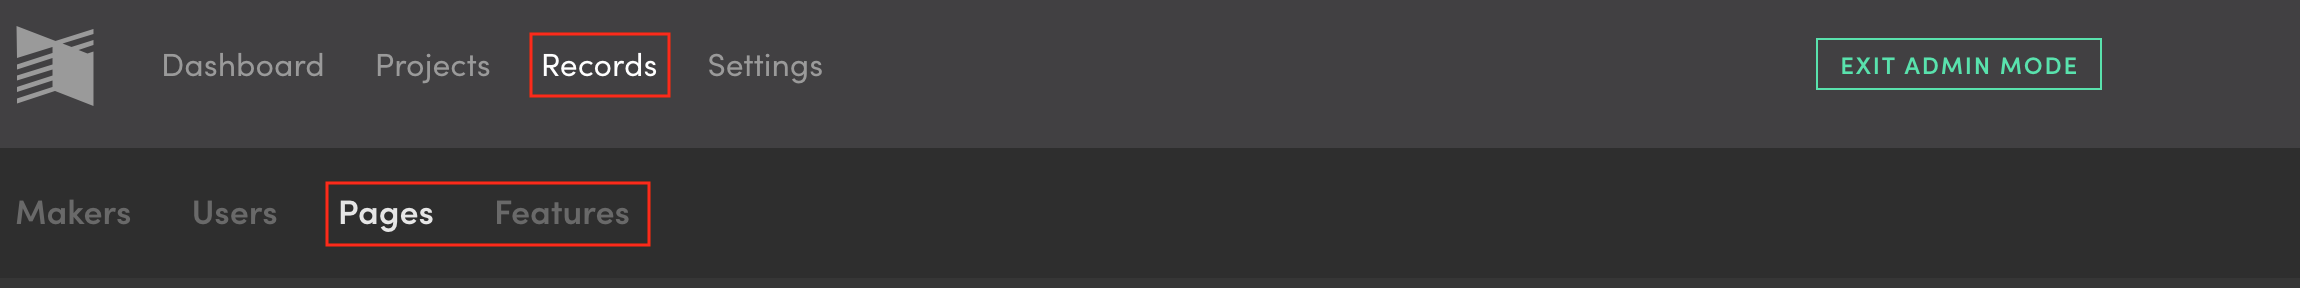
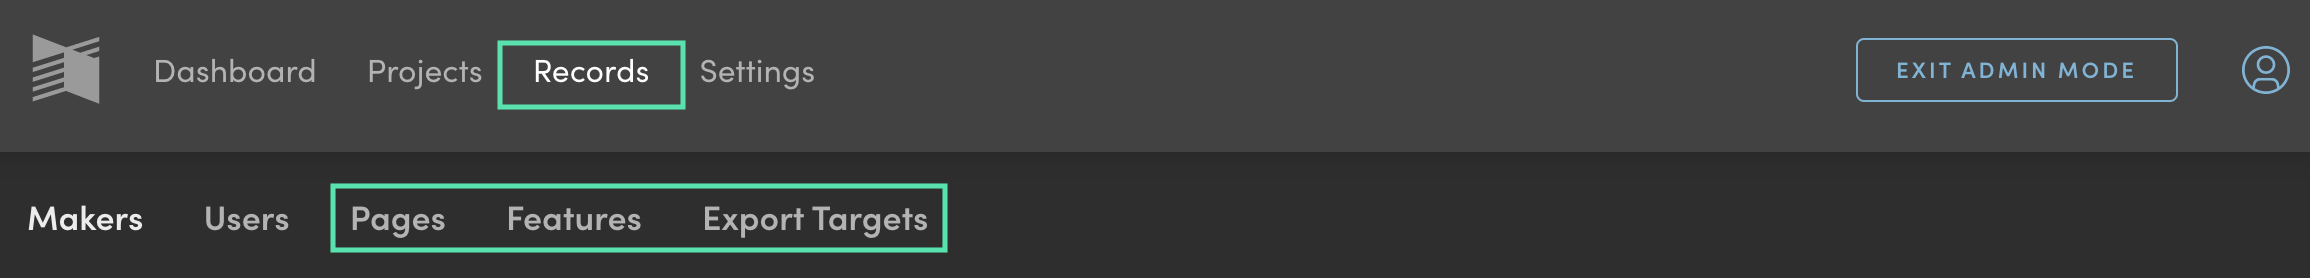
Describes new export feature [WIP]

diff --git a/_docs/customizing/records/export.md b/_docs/customizing/records/export.md
@@ -1,0 +1,121 @@
+---
+layout: page
+title: Export Targets
+menus:
+  records:
+    weight: 3
+---
+
+Publishers entrusting their scholarly content to Manifold can be assured their materials can easily be exported for long-term preservation. This page describes how to establish pathways from a Manifold instance to a preservation archive. We call such pathways “export targets.”
+
+To create or edit existing export targets, navigate from the `Records` menu in the backend to `Export Targets`.
+
+<div style="background: #d4f2ff; margin: 20px 0; padding: 15px;">
+<strong>Note</strong>. You will need to login with Administrator, Editor, or Marketeer credentials in order to this menu in the backend. For more on the roles available in Manifold, see the <a href="/docs/projects/accounts/index.html">Accounts section</a>.
+</div>
+
+Any existing export targets will be listed on this view. New targets can be created by clicking `Add a new export target`, which will open a drawer from the right where the pathway's name and technical details are input.
+
+![New Export Target](/docs/assets/customizing/export-record.png)
+
+The new target form includes the following fields, all of which are required to successfully establish the connection between Manifold and the repository.
+
+## Name
+
+This is an arbitrary name that a publisher can use to describe the connection in a way that makes sense for their situation. As examples, a publisher may use something like “University IR,” “Open Emory,” “Portico”, or “CLOCKKS”.
+
+## Target Name Format
+
+It's easy to be overwhelmed by this field at first glance, but in actuality it's far less complex or difficult to discern than the first impression suggests.
+
+The input in this field only determines the top-level filename of the exported archive. It *does not* affect the structure or content of the export in any way. In short, this gives publishers a means to use variables to ensure the exported archive matches the file naming preferences of an expecting archive.
+
+For the technically inclined, the available input values can be described by [this table](https://github.com/ManifoldScholar/manifold/blob/d500d4e63f7821137728d261814fbc9c9ecb6575/api/app/services/export_strategies/target_name_formatter.rb#L22):
+
+```ruby
+attr_formatter(
+  :format_with,
+  "%d" => -> { cat "%#{fmt.width_str}s" % src.export_created_at.strftime(DATE_FORMAT) },
+  "%e" => -> { cat "%#{fmt.width_str}s" % src.normalized_extension },
+  "%i" => -> { cat "%#{fmt.width_str}s" % src.project_id },
+  "%I" => -> { cat "%#{fmt.width_str}s" % src.export_id },
+  "%n" => -> { cat "%#{fmt.width_str}s" % src.project_name },
+  "%s" => -> { cat "%#{fmt.width_str}s" % src.project_slug },
+  "%t" => -> { cat "%#{fmt.width_str}s" % src.export_created_at.strftime(TIME_FORMAT) },
+  "%u" => -> { cat "%#{fmt.width_str}d" % src.unix_timestamp }
+)
+```
+
+For those not versed in the Ruby scripting language, that table is likely not particularly helpful, so let's make it easier: The default value for any new target export reads as `%s.%e`.
+
+If we look at the table, we see that `%s` is associated with a project's slug. And `%e` refers to a file extension. Which is why there is a period separating the two values in the default: `slug.extension`. Thus, if my project's slug is `metagaming`, the exported archive will be titled `metagaming.zip`.
+
+Another common format would be `%s-%t.%e`: `slug-time.extension`.
+
+From that we get a better sense that variables are letters combined with the percent character (`%`):
+
+| Variable | Meaning               | Example      | Notes                                                                                                                                                      |
+| -------- | --------------------- | ------------ | ---------------------------------------------------------------------------------------------------------------------------------------------------------- |
+| `%d`     | Date                  | `2020-03-06` |                                                                                                                                                            |
+| `%e`     | Extension             |              |                                                                                                                                                            |
+| `%i`     | Project ID            |              |                                                                                                                                                            |
+| `%I`     | Export ID             |              |                                                                                                                                                            |
+| `%n`     | Project Name          |              | We would caution against using this here. Project names often contain spaces that will likely cause problems downstream from the export.                   |
+| `%s`     | Project Slug          |              | A project's slug is the customizable URL suffix that publishers can set in project's [General sidebar](/docs/projects/customizing/general.html#slug) view. |
+| `%t`     | Time (including date) |              |                                                                                                                                                            |
+| `%u`     | UNIX Timestamp        |              |                                                                                                                                                            |
+
+"%d" => "2020-03-06" // Date the export was created
+"%e" => ".zip" // file extension
+"%i" => "059a4e9d-2152-4ae5-816d-41891d4dccd1" // project unique ID (visible in BE URL)
+"%I" => "071be7e7-f8a3-4bb3-845a-affb0f9e4c77" // export unique ID
+"%n" => "A Manifold Project" // name of the project being exported
+"%s" => "manifold-project" // the project slug
+"%t" => "2020-03-06T220927" // date + time the export was created
+"%u" => "1583532567" // unix timestamp for when the export was created
+
+You may want to mention the IDs (project and export) are globally unique IDs
+Also, we could conceivably add more options to that table if we can think of them. That was just what I came up with as sane defaults for what most people might want to export as
+
+And I'm not sure if it was clear / the context of this, but you can also provide directory paths! it will create directory trees on demand when exporting. so you could do something like %s/%d/%I%e to get something like manifold-project/2020-03-06/071be7e7-f8a3-4bb3-845a-affb0f9e4c77.zip for some nice organization.
+
+## Type
+
+Presently there are two dropdown options available for the type of transfer:
+
+- SFTP with Key Authentication
+- SFTP with Password Authentication
+
+Other possibilities could be implemented: Cloud, IR
+
+## SFTP Host
+
+This value will be supplied by the preservation archive and will likely take a format akin to `ftp.ArchiveName.domain`.
+
+## SFTP Port
+
+The default port value, `22`, is the standard that most secure servers will be listening to for transfers of this kind. If the preservation archive does not specify a port for the transfer you can safely assume they are listening on port 22 and leave this field as is.
+
+## SFTP Username
+
+## SFTP Private Key *(Conditional)*
+
+This is a “paste-in” field. Whoever maintains the preservation archive will be able to supply their key that you can then paste here to complete the configuration.
+
+This field only appears when the `Type` field above is toggled to SFTP with Key Authentication
+
+## SFTP Password *(Conditional)*
+
+## Errors
+
+Errors show up in export from project screen, not initial setup.
+
+api/sidkiq to see status of upload
+
+On export screen refresh.
+
+Authenticate against ftp host. Follow standard network debugging protocols to ensure Manifold can access server.
+
+This does not impact enable epub setting in projects.
+
+Standard export sharing following BagIt spec. EPUB is generated; it's not a simple pass through of the source file.

diff --git a/_docs/customizing/records/index.md b/_docs/customizing/records/index.md
@@ -7,18 +7,15 @@ menus:
     weight: 1
 ---
 
-The `Records` menu is composed of four subsections:
-
-- Makers
-- Users
-- Pages
-- Features
-
-The Makers and Users functionality is considered in detail in the [Accounts section](/docs/projects/accounts/index.html).
+The `Records` menu is composed of five subsections: Makers, Users, Pages, Features, and Export Targets. The Makers and Users functionality is considered in detail in the [Accounts section](/docs/projects/accounts/index.html).
 
 ![Records Menu](/docs/assets/customizing/records-menu.png)
 
-This section will review how the [Pages](/docs/customizing/records/pages.html) and [Features](/docs/customizing/records/features.html) menus allow you to create custom pages, which you can use to relate the nature, history, or policies that inform your instance, and control the look of the header section on the homepage.
+This section will review how the Pages, Features, and Export Targets menus:
+
+- [Pages](/docs/customizing/records/pages.html) allow publishers the means to relate the nature, history, or policies that inform their instance through custom webpages that can be added to the site and included in the main header or footer navigation.
+- [Features](/docs/customizing/records/features.html) describe the header section of the Manifold homepage; the menus available in this view are where publishers control the look of header and provide the means to create alternate header templates for different situations.
+- [Export Targets](/docs/customizing/records/export.html) provide the means for publishers to create new pathways to export their content for preservation purposes (e.g., institutional repositories or preservation partners like [Portico](https://www.portico.org/) or [CLOCKSS](https://clockss.org/)). 
 
 <div style="background: #d4f2ff; margin: 20px 0; padding: 15px;">
 Only those with Administrator, Editor, or Marketeer credentials are able to access this menu in the backend. For more on the roles available in Manifold, see the <a href="/docs/projects/accounts/index.html">Accounts section</a>.
